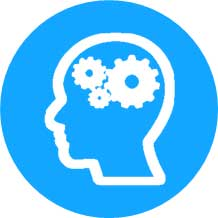
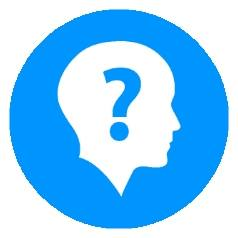
changed buttons in main menu

diff --git a/app/src/app/main/main.page.html b/app/src/app/main/main.page.html
@@ -6,14 +6,15 @@
 
 <ion-content padding style="text-align: -webkit-center;">
 <div class="mode">
-    <img src='../../assets/images/learn.jpg'  (click)="learnPage()">
-
+  <img src='../../assets/images/learn.jpg'  (click)="learnPage()">
   <p>Learning Phase</p>
     <img src='../../assets/images/test.jpg'   (click)="testPage()" >
   <p>Testing Phase</p>
+  <img src='../../assets/images/stats.jpg'  (click)="ShowStatistics()">
+  <p>Show Statistics</p>
+    <img src='../../assets/images/settings.jpg'   (click)="ChangePreference()" >
+  <p>Settings</p>
 
 </div>
-<ion-button (click)="ShowStatistics()" >Show Statistics</ion-button>
-<ion-button (click)="ChangePreference()" >Change preferences</ion-button>
 <ion-button (click)="Logout()" >Logout</ion-button>
 </ion-content>
